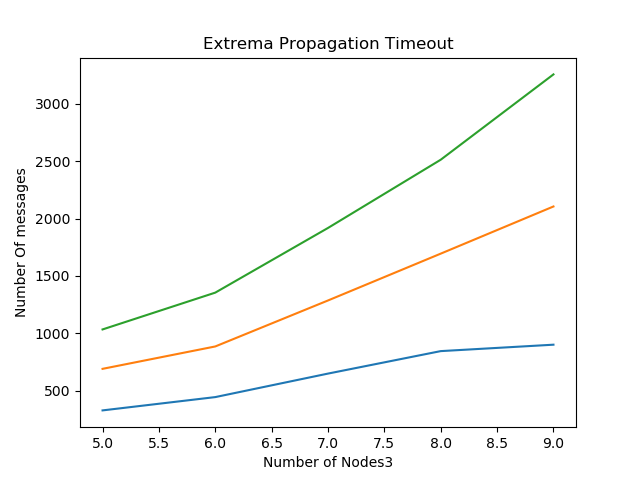
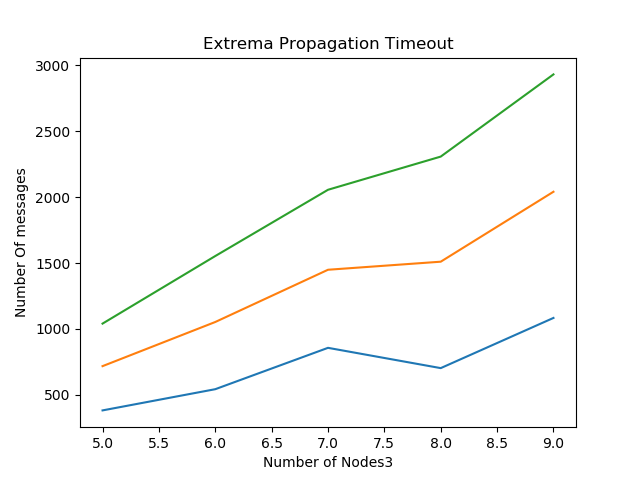
extrema neighbours reaches convergence + simulator method checks convergence

diff --git a/ExtremaAllNeighbours.py b/ExtremaAllNeighbours.py
@@ -2,6 +2,7 @@ import discrete_event_simulator, gen_Graphs
 import random
 import statistics
 
+
 from Simulator_Statistics import Simulator_Analyzer
 
 
@@ -16,16 +17,17 @@ class ExtremaNode(discrete_event_simulator.Node):
         self.timeout = timeout
         self.timeout_time = 0
         self.gotFrom = []
+        self.converged = False
         
     def start(self):
         self.nonews = 0
-        self.converged = False
         self.x = []
         for _ in range(self.K):
             self.x.append(self.r * random.expovariate(1))
         return (self.broadcast_messages(self.x), self.set_timeout(0, None))
 
     def handle_message(self, message: discrete_event_simulator.Message, time):
+        #print("+" + str(self.converged) + " that I converged")
         self.time = time
         oldx = False
         for i in range(self.K):
@@ -38,7 +40,10 @@ class ExtremaNode(discrete_event_simulator.Node):
         else:
             if message.src not in self.gotFrom: # <---- problema é criado ao colocar este if
                 self.gotFrom.append(message.src)
-            print("me: " + str(message.to) + " src:" + str(message.src) + " current array: " + str(self.gotFrom) + " neighbours: " + str(self.neighbours))
+            if not self.converged:
+                print("me: " + str(message.to) + " src:" + str(message.src) + " current array: " + str(self.gotFrom) + " neighbours: " + str(self.neighbours))
+            else:
+                print("me:" + str(self.node) + " Converged")
             if len(self.gotFrom) == len(self.neighbours):
                 self.nonews += 1
                 self.gotFrom.clear()
@@ -50,35 +55,34 @@ class ExtremaNode(discrete_event_simulator.Node):
                 variance = (N**2) / (self.K - 2)
                 print("Node ", self.node, " :: Result: " , N, " ± ", (variance**(1/2)) * 3)
             else:
-                #msgs.append(discrete_event_simulator.Message(self.node, message.src, message.body))
-                msgs = self.broadcast_messages(message.body)
-                print("me: " + str(message.to) + " to: " + str(message.src) + " request message sent")
+                msgs.append(discrete_event_simulator.Message(self.node, message.src, self.x))
+                #msgs = self.broadcast_messages(self.x)
+                #msgs = self.missingN_messages(self.x)
+                #for msg in msgs:
+                #    print("--> me: " + str(msg.src) + " to: " + str(msg.to) + " request message sent")
             self.converged = True
-            return msgs, []
+            return (msgs, [])
         else:
             if time >= self.timeout_time and not self.converged:
-                self.timeout_time = time + self.timeout
                 timeout_event = self.set_timeout(time, None)
             else:
                 timeout_event = []
-            msgs = self.broadcast_messages(self.x)
+            msgs = self.missingN_messages(self.x)
             for msg in msgs:
                 print("src: " + str(msg.src) + " to: " + str(msg.to))
-            return msgs, timeout_event
+            return (msgs, timeout_event)
 
     def handle_event(self, event: discrete_event_simulator.SelfEvent, time):
         if self.converged:
-            return [], []
+            return ([], [])
         if time >= self.timeout_time:
             print("TIMEOUT " + str(self.node))
-            self.timeout_time = time + self.timeout
-            timeout_event = self.set_timeout(time, None)
             msgs = self.broadcast_messages(self.x)
+            timeout_event = self.set_timeout(time, None)
             return (msgs, timeout_event)
         else:
             print("TIMEOUT2 " + str(self.node))
-            timeout_event = self.set_timeout(time, None)
-            return ([], timeout_event)
+            return ([], self.set_timeout(time, None))
 
     def broadcast_messages(self, body):
         msgs = []
@@ -87,10 +91,17 @@ class ExtremaNode(discrete_event_simulator.Node):
                 msgs.append(discrete_event_simulator.Message(self.node, neighbour, body))
         return msgs
     
+    def missingN_messages(self, body):
+        msgs = []
+        for neighbour in self.neighbours:
+            if neighbour not in self.gotFrom:
+                msgs.append(discrete_event_simulator.Message(self.node, neighbour, body))
+        return msgs
+    
     def set_timeout(self, time, body):
         self.timeout_time = time + self.timeout
         return [(self.timeout, discrete_event_simulator.SelfEvent(self.node, body))]
-
+    
 class UnstableNetworkSimulator(discrete_event_simulator.Simulator):
     def __init__(self, nodes, distances, max_dist = 0, timeout = 0, network_change_time = 1, debug = False):
         super().__init__(nodes, distances)
@@ -100,8 +111,8 @@ class UnstableNetworkSimulator(discrete_event_simulator.Simulator):
         self.debug = debug
 
     def handle_simulator_event(self, event):
-        if self.debug:
-            print("Update network")
+        #if self.debug:
+        #    print("Update network")
         graph = gen_Graphs.random_graph(len(self.nodes))
         for node in graph.nodes:
             self.nodes[node].neighbours = list(graph.neighbors(node))
@@ -111,7 +122,7 @@ class UnstableNetworkSimulator(discrete_event_simulator.Simulator):
                     # print(str(node) + " -> " + str(neighbour) + " = " + str(self.distances[node][neighbour]))
             self.distances[node][node] = self.timeout
         #return [(random.randrange(1, self.network_change_time + 2), discrete_event_simulator.SimulatorEvent(True))]
-        return [], []
+        return []
 
 def simulatorGenerator(n, K, T, max_dist = 0, timeout = 0, fanout = None, debug = False):
     graph = gen_Graphs.random_graph(n)

diff --git a/discrete_event_simulator.py b/discrete_event_simulator.py
@@ -2,6 +2,7 @@ import queue
 import string
 from typing import List, Tuple, Optional
 
+
 class Event:
     def __init__(self, body):
         self.body = body
@@ -95,7 +96,9 @@ class Simulator:
             for self_event in new_self_events:
                 self.put_event(self_event)
 
-        while not self.events.empty():
+        while not self.isConverged(): #not self.events.empty()
+            for node in self.nodes:
+                print( str(node.node) + " is " + str(node.converged))
             (time, event) = self.events.get()
             if time > self.current_time:
                 print(time)
@@ -120,6 +123,16 @@ class Simulator:
             #for self_event in new_self_events:
             #    self.put_event(self_event)
 
+
+    def isConverged(self):
+        convergence = True
+        for node in self.nodes:
+            if not node.converged:
+                convergence = False
+                break
+        print("Convergence is " + str(convergence))
+        return convergence
+
     def get_message_events(self) -> List[Tuple[int, Event]]:
         return [(time, ev) for (time, ev) in self.event_history if isinstance(ev, Message)]
 
@@ -127,4 +140,4 @@ class Simulator:
         return self.event_history
 
     def get_logger_file(self) -> string:
-        return None;
+        return None
